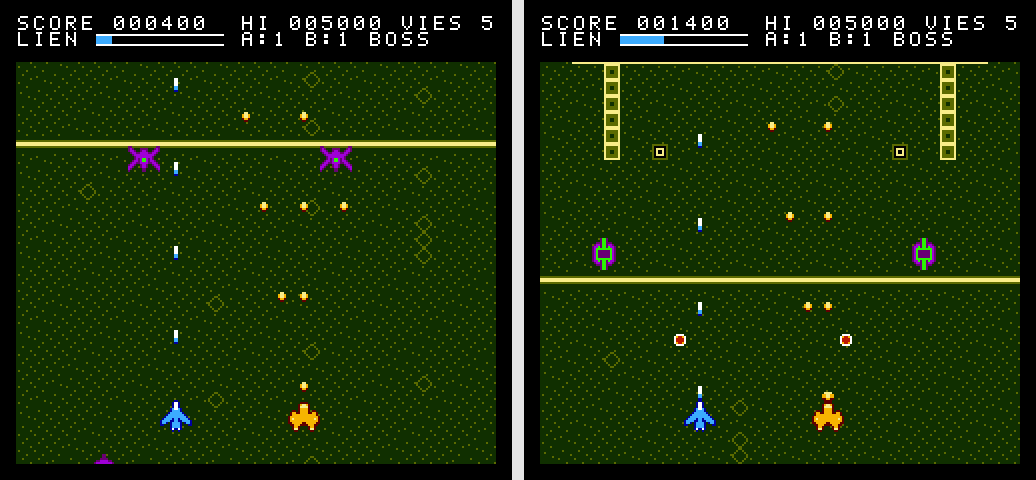
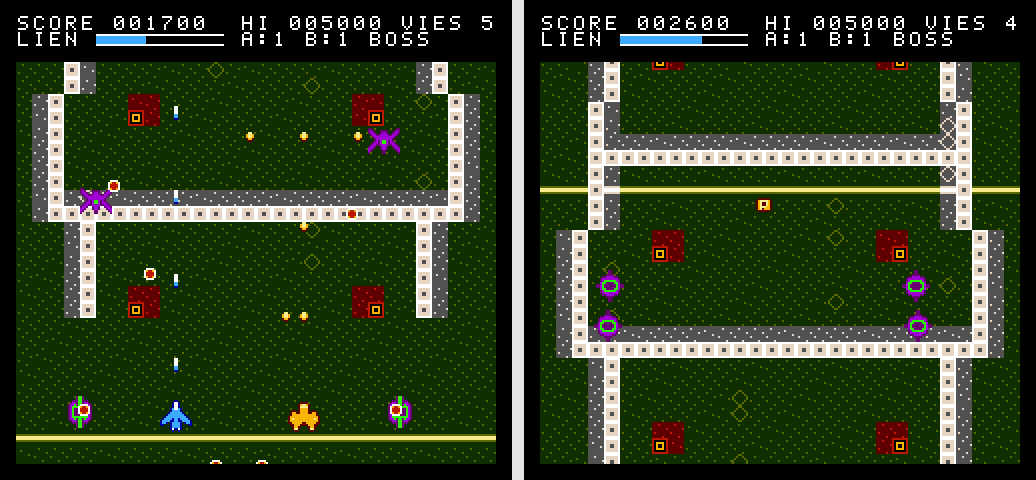
Palettes multiples en niveau vertical (copie RAM des attributs), secteur 2 colore
L'anneau de 30 rangees n'est pas aligne sur les blocs d'attributs : chaque
paire de rangees de carte met a jour la moitie de rangee d'attributs
correspondante dans une copie RAM, envoyee ensuite (8 octets). Verifie
bloc par bloc dans T11 et apres reprise (T31).

Claude-Session: https://claude.ai/code/session_01Y3u37cTDTV9wzvajE2uCuY

diff --git a/tests/run_tests.js b/tests/run_tests.js
@@ -49,6 +49,16 @@ function vramErrors(m) {
       while (r < Math.floor(cam / 8) - 2) r += 30;
       const id = m.romByte(ids + Math.min(r, 231)), tp = m.romByte(tlo + id) | (m.romByte(thi + id) << 8);
       for (let c = 0; c < 32; c++) if (m.romByte(tp + c) !== m.nt(0x2400 + ntrow * 32 + c)) bad++;
+      // attributs : bloc k (16 px) de la paire de rangees r>>1
+      const attr = m.sym[pre + "_attr"];
+      if (attr !== undefined) {
+        const rr = Math.min(r, 231), a = ntrow >> 2, half = (ntrow >> 1) & 1;
+        for (let k = 0; k < 16; k++) {
+          const want = (m.romByte(attr + (rr >> 1) * 4 + (k >> 2)) >> (2 * (k & 3))) & 3;
+          const got = (m.nt(0x27c0 + a * 8 + (k >> 1)) >> ((k & 1) * 2 + half * 4)) & 3;
+          if (want !== got) bad++;
+        }
+      }
     }
   }
   return bad;
@@ -224,7 +234,7 @@ test("T10", "Scrolling horizontal : contenu VRAM conforme a la carte sur tout le
 
 test("T11", "Scrolling vertical : contenu VRAM conforme a la carte sur tout le niveau", () => {
   const m = startGame({ players: 2, sector: 1 });
-  let bad = 0, checks = 0;
+  let bad = 0, checks = 0, vattr = 0;
   const ids = m.s("s2_ids"), tlo = m.s("s2_tlo"), thi = m.s("s2_thi");
   for (let k = 0; k < 16; k++) {
     m.frame(101, invul);
@@ -237,12 +247,13 @@ test("T11", "Scrolling vertical : contenu VRAM conforme a la carte sur tout le n
       for (let c = 0; c < 32; c++) { checks++; if (m.romByte(tp + c) !== m.nt(0x2400 + ntrow * 32 + c)) bad++; }
     }
     if (k === 6) m.screenshot(path.join(SHOTS, "05_secteur2_vertical.png"));
+    vattr += vramErrors(m);
   }
   // le HUD ne doit jamais etre ecrase
   let hudOk = true;
   const row1 = " SCORE ";
   for (let i = 0; i < row1.length; i++) if (m.nt(0x2020 + i) !== row1.charCodeAt(i)) hudOk = false;
-  return { ok: bad === 0 && hudOk && camOf(m) === 1536, detail: `${checks} tuiles verifiees, ${bad} erreurs, HUD intact=${hudOk}, camera=${camOf(m)}` };
+  return { ok: bad === 0 && vattr === 0 && hudOk && camOf(m) === 1536, detail: `${checks} tuiles verifiees, ${bad} erreurs, erreurs tuiles+attributs (verif. 2)=${vattr}, HUD intact=${hudOk}, camera=${camOf(m)}` };
 });
 
 test("T12", "Ennemis et projectiles : 4 familles + conteneurs destructibles, tirs ennemis", () => {

diff --git a/tools/gen_assets.py b/tools/gen_assets.py
@@ -380,6 +380,27 @@ def attrs_h(cols, palfn):
     return out
 
 
+def attrs_v(rows, palfn):
+    """Attributs des secteurs verticaux : par paire de rangees (2m, 2m+1),
+    16 blocs de 16x16 px (2 bits chacun), 4 octets ; bloc q dans l'octet q//4,
+    bits 2*(q%4). Le jeu les recompose dans la copie RAM des attributs."""
+    out = []
+    for m in range(len(rows) // 2):
+        q = [max(palfn(2 * k + dx, 2 * m + dy) for dx in (0, 1) for dy in (0, 1)) for k in range(16)]
+        for j in range(4):
+            out.append(q[4 * j] | (q[4 * j + 1] << 2) | (q[4 * j + 2] << 4) | (q[4 * j + 3] << 6))
+    return out
+
+
+def pal_s2(c, rows, x, y):
+    t = rows[y][x]
+    if t == c["T_WALL"]:
+        return 3
+    if t == c["T_PAD"]:                 # les crateres restent dans la palette du sol
+        return 2
+    return 0
+
+
 def gen_map_v(c):
     """Secteur 2 : survol planetaire, lignes de 32 tuiles. Ligne 0 = bas (debut)."""
     rng = random.Random(4321)
@@ -431,9 +452,9 @@ SECTORS = [
          cam_stop=1760, cp=896, song="stage", boss=1,
          pal=[0x0F, 0x00, 0x10, 0x3C, 0x0F, 0x30, 0x21, 0x16, 0x0F, 0x07, 0x17, 0x27, 0x0F, 0x01, 0x11, 0x31]),
     dict(name="s2", title="Surface de Kera", orient=1, bank=2, tiles="tiles_s2.txt",
-         sprites="sprites_s1.txt", spr_set=0, gen=gen_map_v, palfn=None,
+         sprites="sprites_s1.txt", spr_set=0, gen=gen_map_v, palfn=pal_s2,
          cam_stop=1536, cp=768, song="stage", boss=1,
-         pal=[0x0F, 0x08, 0x18, 0x38, 0x0F, 0x30, 0x21, 0x16, 0x0F, 0x08, 0x18, 0x38, 0x0F, 0x08, 0x18, 0x38]),
+         pal=[0x0F, 0x08, 0x18, 0x38, 0x0F, 0x30, 0x21, 0x16, 0x0F, 0x06, 0x16, 0x27, 0x0F, 0x00, 0x10, 0x30]),
     dict(name="s3", title="Ceinture brisee", orient=0, bank=3, tiles="tiles_s3.txt",
          sprites="sprites_s3.txt", spr_set=1, gen=gen_map_belt, palfn=pal_s3,
          cam_stop=1760, cp=896, song="belt", boss=2,
@@ -697,7 +718,8 @@ def main():
             units[CHR_SPR_SECTOR + len(spr_sets) - 1] = enc(build_sector_sprites(sec["sprites"]))
         lines = sec["gen"](c)
         tpl, ids = dedupe(lines)
-        attr = attrs_h(lines, lambda x, y, c=c, lines=lines, f=sec["palfn"]: f(c, lines, x, y)) if sec["palfn"] else None
+        attrfn = attrs_h if sec["orient"] == 0 else attrs_v
+        attr = attrfn(lines, lambda x, y, c=c, lines=lines, f=sec["palfn"]: f(c, lines, x, y)) if sec["palfn"] else None
         sector_data.append((sec, c, tpl, ids, attr, load_script(sec["name"])))
     chr_data = b"".join(units)
     assert len(chr_data) == 32768
@@ -734,7 +756,7 @@ def main():
         out.append(ca65_bytes(f"{n}_pal", sec["pal"] + SPR_PAL))
         out.append(ca65_bytes(f"{n}_ids", ids))
         if attr:
-            out.append(ca65_bytes(f"{n}_attr", attr, 7))
+            out.append(ca65_bytes(f"{n}_attr", attr, 7 if sec["orient"] == 0 else 4))
         out.append(f"{n}_tlo:\n    .lobytes " + ",".join(f"{n}_t{i}" for i in range(len(tpl))))
         out.append(f"{n}_thi:\n    .hibytes " + ",".join(f"{n}_t{i}" for i in range(len(tpl))))
         for i, t in enumerate(tpl):

diff --git a/docs/RESULTATS_TESTS.md b/docs/RESULTATS_TESTS.md
@@ -17,7 +17,7 @@ Resultat : **35/35** reussis.
 | T08 | Solo : la jauge pleine declenche la NOVA (aucun partenaire requis) | OK | nova_t=22, ennemis restants=0, projectiles=0 |
 | T09 | Coop : TRANSFERT D'ENERGIE ramene un partenaire sans vie | OK | EGIDE en vol=1 |
 | T10 | Scrolling horizontal : contenu VRAM conforme a la carte sur tout le niveau | OK | 16224 tuiles verifiees, 0 erreurs, camera finale=1760 |
-| T11 | Scrolling vertical : contenu VRAM conforme a la carte sur tout le niveau | OK | 13312 tuiles verifiees, 0 erreurs, HUD intact=true, camera=1536 |
+| T11 | Scrolling vertical : contenu VRAM conforme a la carte sur tout le niveau | OK | 13312 tuiles verifiees, 0 erreurs, erreurs tuiles+attributs (verif. 2)=0, HUD intact=true, camera=1536 |
 | T12 | Ennemis et projectiles : 4 familles + conteneurs destructibles, tirs ennemis | OK | familles vues=[1,2,3,4,5], ennemis simultanes max=10, projectiles ennemis max=6 |
 | T13 | Mini-boss : apparition, 2 phases, destruction, niveau libere | OK | apparu=true, phase2=true, projectiles max=16, etat apres destruction=2, enchainement secteur 2=true |
 | T14 | Perte de vie, reapparition invulnerable, game over et retour au titre | OK | vies initiales=3, pertes=4, game over=true, ecran CONTINUER=true, retour titre=true |
@@ -25,8 +25,8 @@ Resultat : **35/35** reussis.
 | T16 | Musique : sequence jouee sur pulse 1/2, triangle, bruit et DPCM | OK | ecritures periode P1=21 P2=87 TRI=37 BRUIT=36, declenchements DPCM=14, registres APU utilises=19 |
 | T17 | Effets sonores : plusieurs SFX distincts declenches en jeu | OK | 8 effets distincts : SHOT_A, SHOT_B, HIT, EXPLODE, POWERUP, BEAM, SYNC, COOPREADY |
 | T18 | Sauvegarde : record ecrit en PRG-RAM, relu apres coupure, copie corrompue toleree | OK | signature=SPTL, relu=042420, copie A corrompue -> 042420, vierge -> 005000 |
-| T19 | Performances : scene chargee (2 joueurs niv.3, 10 ennemis, 16 tirs ennemis, boss, faisceau) | OK | vblank utilise max=1530/2273 cycles, cycles/image max=26754 moy=23201 (budget NTSC 29780 = 90 %), images perdues=0, sprites/ligne max=10, images avec >8 sprites/ligne=298/595, OAM saturee=599 |
-| T20 | Performances : partie normale (secteur 1 complet a 2 joueurs) | OK | cycles/image max=19035 moy=13336, images perdues=0, vblank utilise max=1530/2273 cycles |
+| T19 | Performances : scene chargee (2 joueurs niv.3, 10 ennemis, 16 tirs ennemis, boss, faisceau) | OK | vblank utilise max=1530/2273 cycles, cycles/image max=26740 moy=23239 (budget NTSC 29780 = 90 %), images perdues=0, sprites/ligne max=10, images avec >8 sprites/ligne=298/595, OAM saturee=599 |
+| T20 | Performances : partie normale (secteur 1 complet a 2 joueurs) | OK | cycles/image max=19064 moy=13364, images perdues=0, vblank utilise max=1530/2273 cycles |
 | T21 | PAL : compensation 6/5 de la logique (cadence de jeu identique a 60 Hz) | OK | camera +600 px en 500 images a 50 Hz (attendu 600 = 10 s de jeu). Logique seule : jsnes emule uniquement le NTSC. |
 | T23 | Capacite propre LANCE : surcharge (vitesse x1.8, esquive), recharge | OK | deplacement 63px en 14 images (normal 35), indemne=true, recharge=76 images, 2e appui pendant la recharge ignore=true |
 | T24 | Capacite propre EGIDE : bouclier frontal absorbant 4 projectiles | OK | bouclier actif=true, absorbes=4/4, 5e projectile touche=true |
@@ -36,12 +36,12 @@ Resultat : **35/35** reussis.
 | T28 | Bilan de fin de secteur : sortie des vaisseaux, cibles, bonus de vies | OK | etat bilan=true, vaisseaux sortis=true, texte="CIBLES 42", score 010000 -> 013000 (+3 vies x 1000) |
 | T29 | Decor multi-palettes : attributs VRAM conformes sur tout le secteur 1 | OK | 1190 octets d'attributs verifies, 0 erreurs, palettes de decor utilisees=[0,2,3], HUD intact=true |
 | T30 | Decor destructible : conteneur ancre au decor, detruit en 3 impacts, butin | OK | defilement suivi=10px/10 img, detruit apres 28 images de tir, capsule=true, score 000000->000200 |
-| T31 | Point de reprise + CONTINUER : relance au relais (H et V), decor exact | OK | H: relais=896 msg=true CONTINUER=true reprise cam=899 erreurs VRAM=0 vies=5 credits=2 score=000000 ; V: relais=768 msg=true CONTINUER=true reprise cam=772 erreurs VRAM=0 vies=5 credits=2 score=000000 |
+| T31 | Point de reprise + CONTINUER : relance au relais (H et V), decor exact | OK | H: relais=896 msg=true CONTINUER=true reprise cam=899 erreurs VRAM=0 vies=5 credits=2 score=000000 ; V: relais=768 msg=true CONTINUER=true reprise cam=771 erreurs VRAM=0 vies=5 credits=2 score=000000 |
 | T32 | Difficultes : RECRUE/PILOTE/VETERAN, EXPERT verrouille puis debloque et sauvegarde | OK | [diff, vies solo, vitesse visee, masque tourelles, PV boss] = [[0,5,0,127,180],[1,3,16,63,250],[2,2,16,63,250]] ; EXPERT verrouille=true, debloque apres l'epilogue et relu=true |
 | T33 | Secteur 3 Ceinture brisee : decor/attributs, unites lourdes, Essaim-mere, epilogue | OK | secteur charge=true, erreurs VRAM decor=0 attributs=0, unites lourdes=true (tirent=true), drones laches par le boss=3, projectiles max=16, boss vaincu=true, epilogue=true |
 | T34 | Secteurs debloques : sauvegardes, seuls les debloques sont proposes au menu | OK | sauvegarde vierge : secteur 2 inaccessible=true ; apres secteur 1 : masque=3, menu -> secteur 2 puis 1 |
 | T35 | Acces libre (B au titre) : secteur 3 jouable sans sauvegarde, sauvegarde inchangee | OK | sans acces libre : verrouille=true ; avec B : secteur 3, texte="ACCES LIBRE : ACTIF", partie secteur 3 lancee=true, sauvegarde intacte=true |
-| T22 | Compilation reproductible : deux constructions identiques octet pour octet | OK | sha256=2435c2e28333c9fd... |
+| T22 | Compilation reproductible : deux constructions identiques octet pour octet | OK | sha256=a5ec67b288b12b27... |
 
 ## Mesures
 
@@ -50,19 +50,19 @@ Resultat : **35/35** reussis.
   "cam_h_end": 1760,
   "maxEnemies": 10,
   "maxEnemyBullets": 6,
-  "stressMaxCycles": 26754,
-  "stressAvgCycles": 23201,
+  "stressMaxCycles": 26740,
+  "stressAvgCycles": 23239,
   "stressLag": 0,
   "spLineMax": 10,
   "framesOver": 298,
   "sprFull": 599,
   "stressFrames": 595,
   "stressVblankMax": 1530,
-  "normalMaxCycles": 19035,
-  "normalAvgCycles": 13336,
+  "normalMaxCycles": 19064,
+  "normalAvgCycles": 13364,
   "normalLag": 0,
   "normalVblankMax": 1530,
[2 lines of base64/hex data omitted]
   "romSize": 98320
 }
 ```
